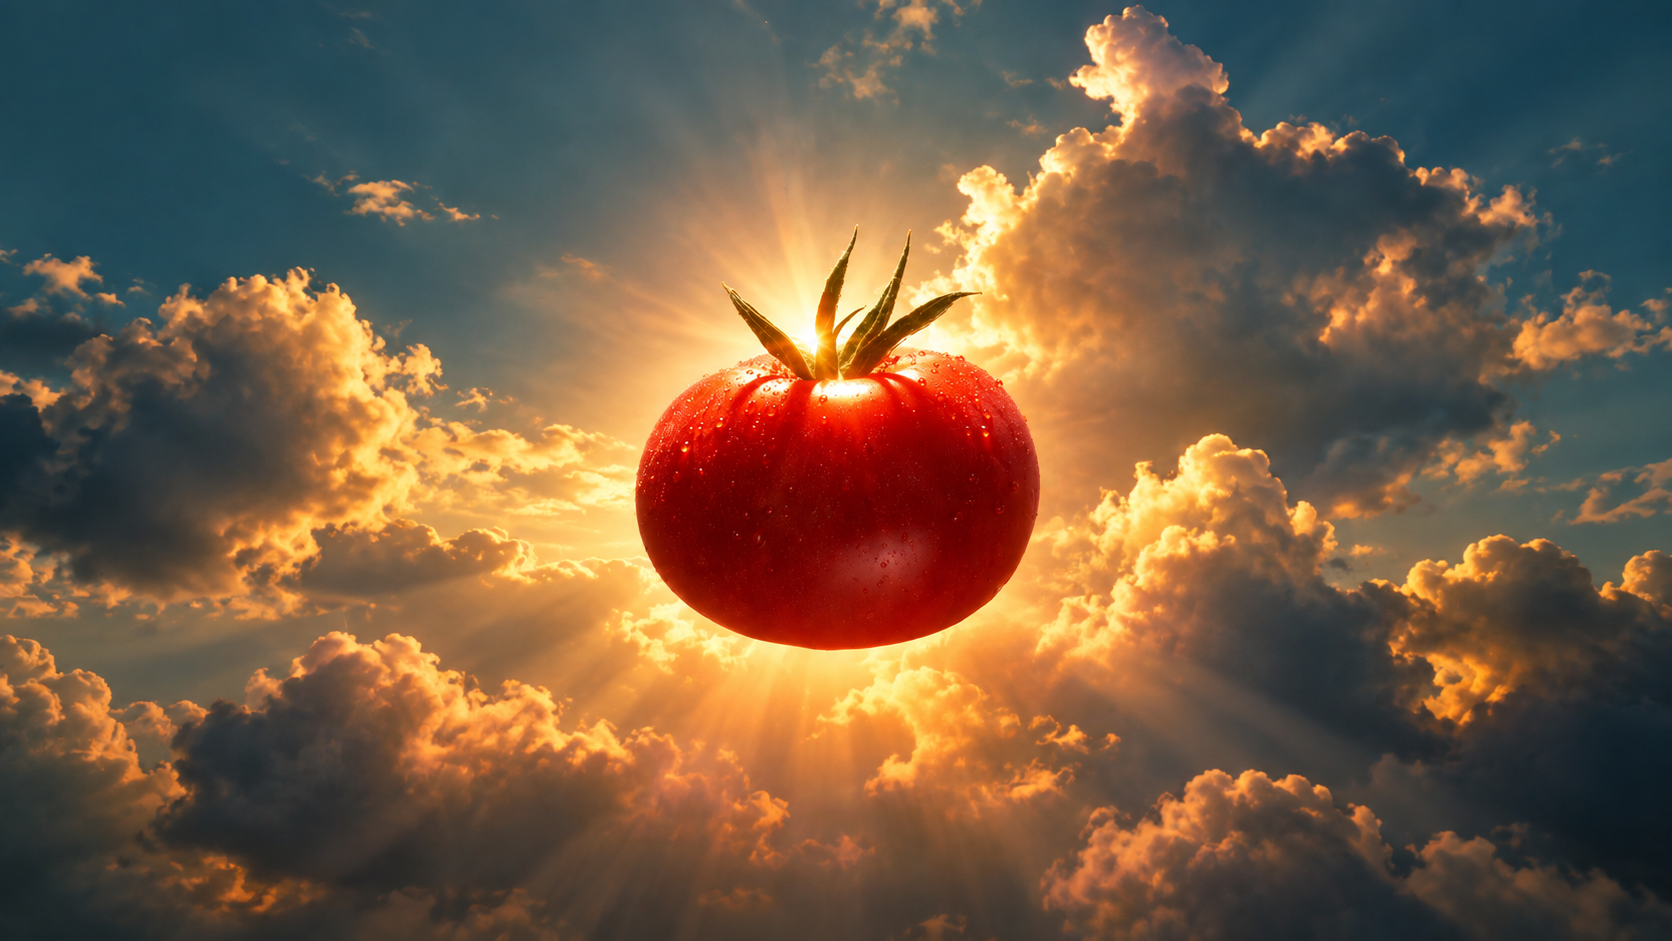
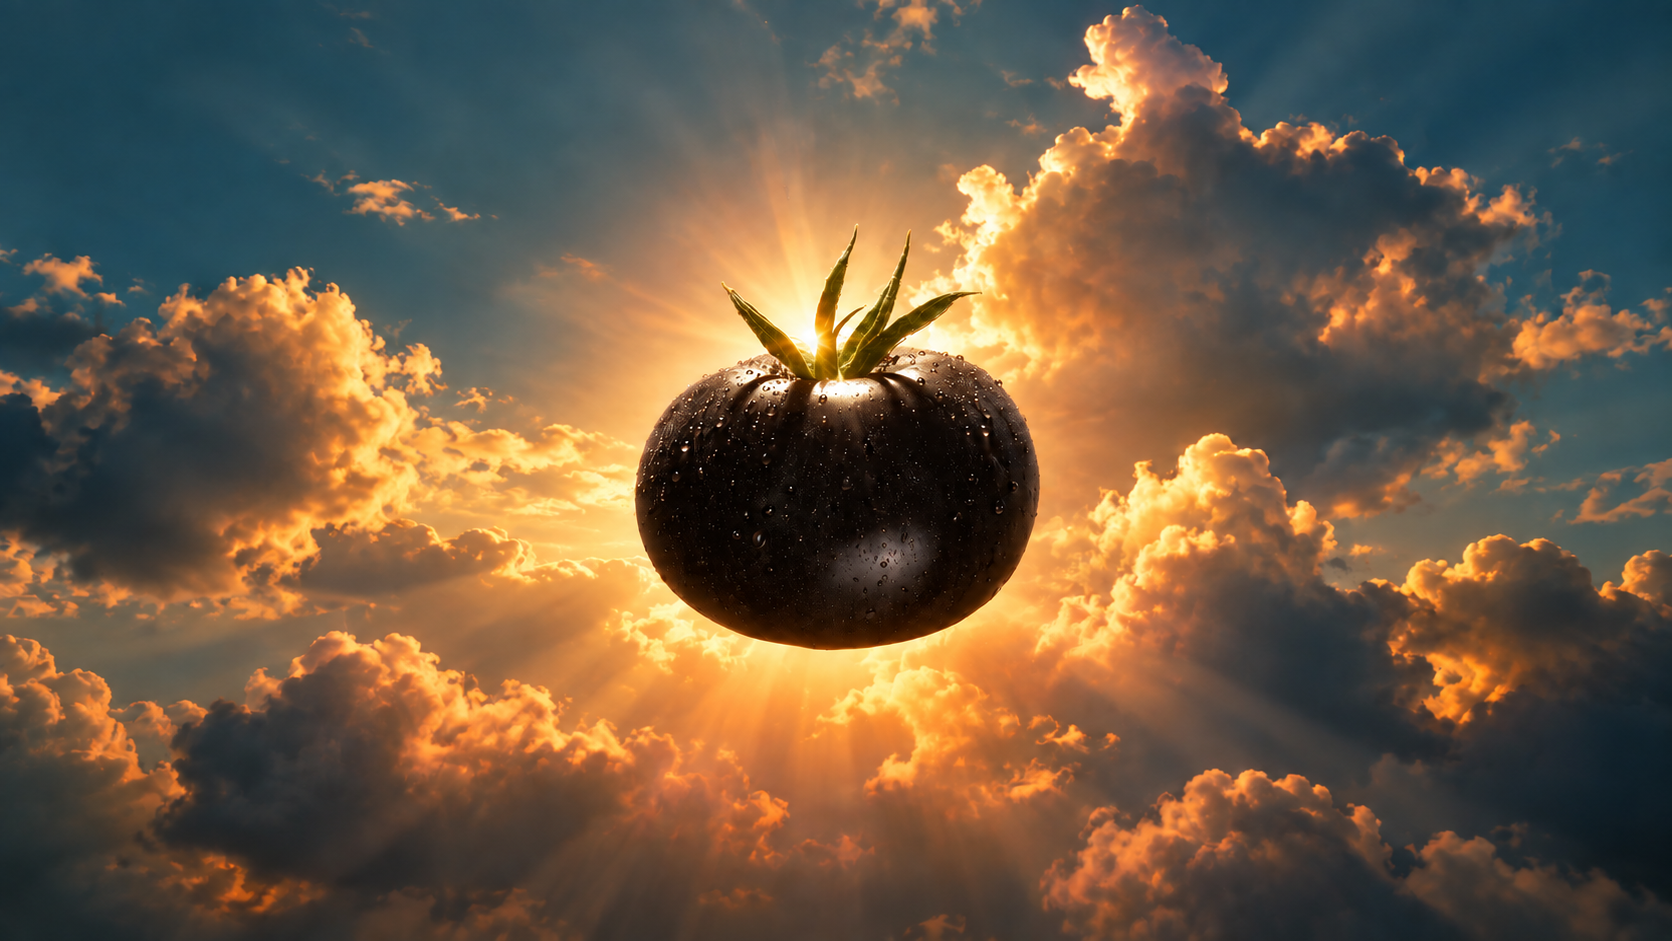
Static-import hero image so file changes bust the cache

Changed region(s): [[0.3732, 0.2774, 0.622, 0.7088], [0.6531, 0.1233, 0.6842, 0.1541]]

diff --git a/src/components/hero-intro.tsx b/src/components/hero-intro.tsx
@@ -4,6 +4,9 @@ import Image from "next/image";
 import { useRef } from "react";
 import { ArrowDown, ArrowUpRight } from "lucide-react";
 import { motion, useReducedMotion, useScroll, useTransform, type Variants } from "motion/react";
+// Static import: the built URL includes a content hash, so replacing the file
+// changes the URL and the optimized-image cache busts automatically.
+import heroSky from "../../public/hero-sky.png";
 
 const EASE: [number, number, number, number] = [0.22, 1, 0.36, 1];
 
@@ -43,7 +46,7 @@ export function HeroIntro() {
     <div className="hero-image">
       <motion.div className="hero-image-parallax" style={reduced ? undefined : { y: imageY, scale: imageScale }}>
         <motion.div className="hero-image-fade" initial={reduced ? false : { opacity: 0, scale: 1.12 }} animate={{ opacity: 1, scale: 1 }} transition={{ duration: 1.2, ease: EASE }}>
-          <Image src="/hero-sky.png" alt="A ripe red tomato glowing like a sun in the sky" fill priority sizes="(max-width: 760px) 100vw, 51vw" />
+          <Image src={heroSky} alt="A tomato glowing like a sun in a cloudy sky" fill priority sizes="(max-width: 760px) 100vw, 51vw" />
         </motion.div>
       </motion.div>
       <div className="image-label"><span>ONE COMPANY.<br />A WORLD OF POSSIBILITY.</span><span className="image-label-mark" aria-hidden="true">T.</span></div>
